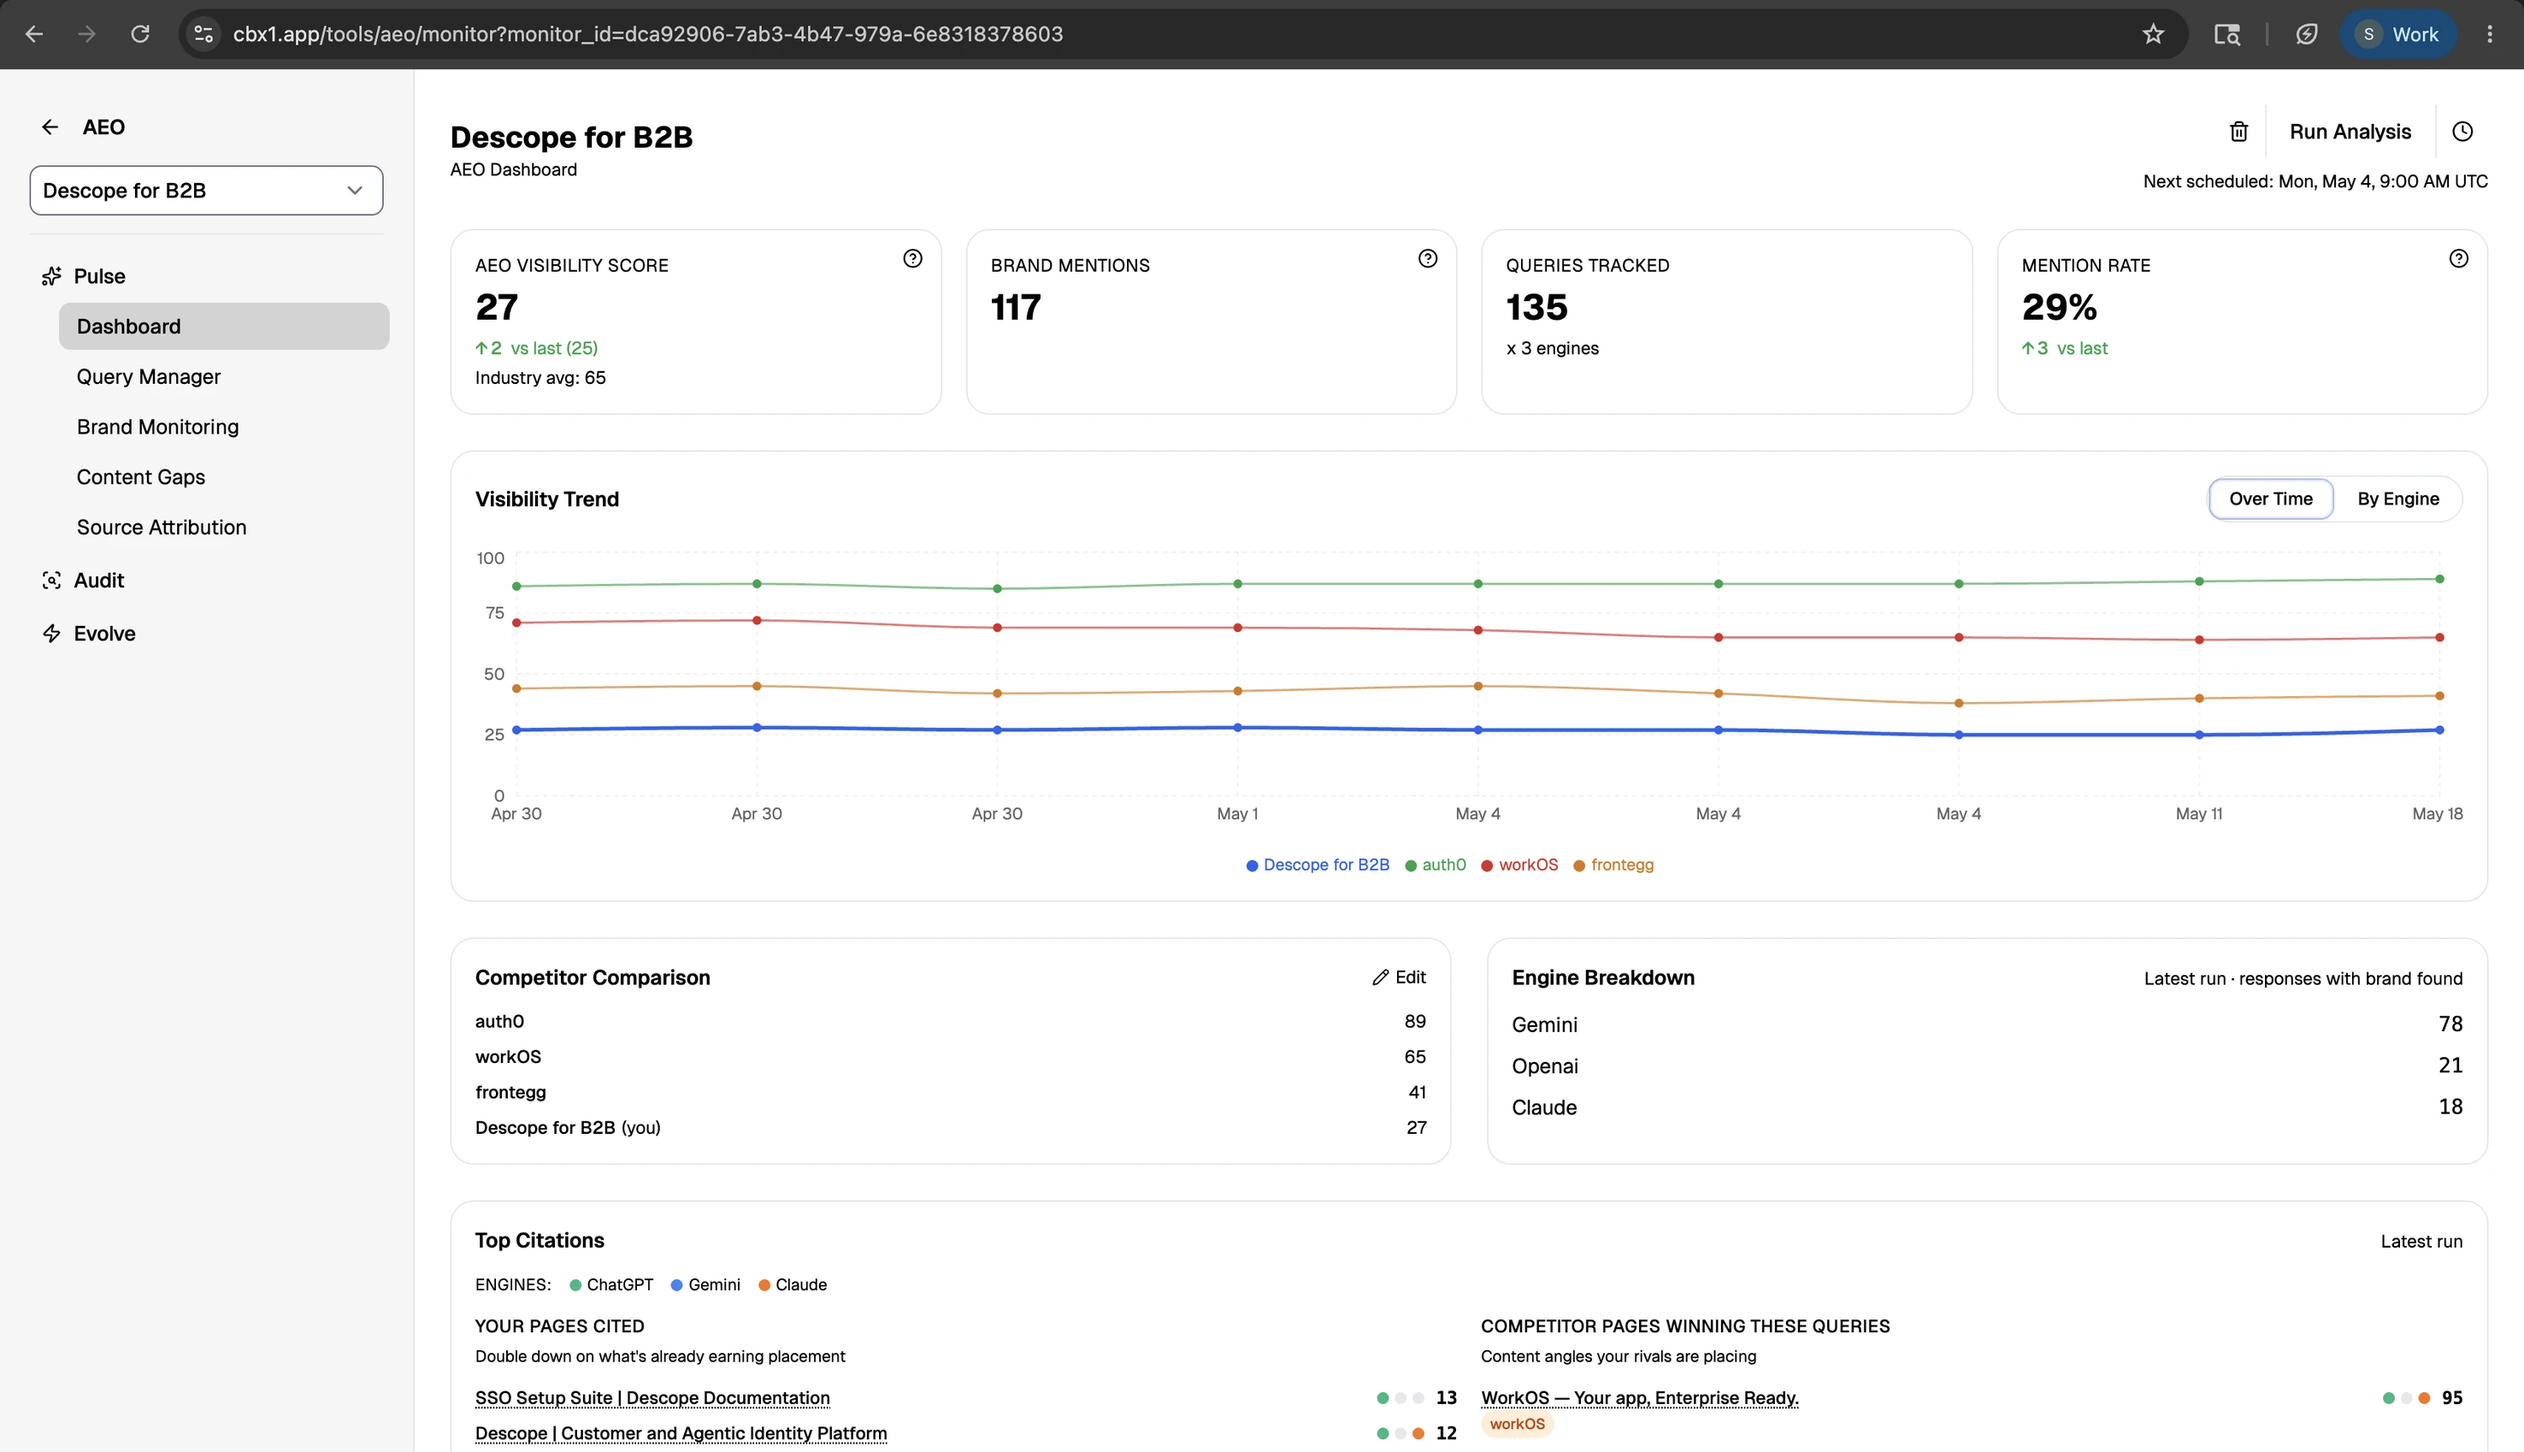
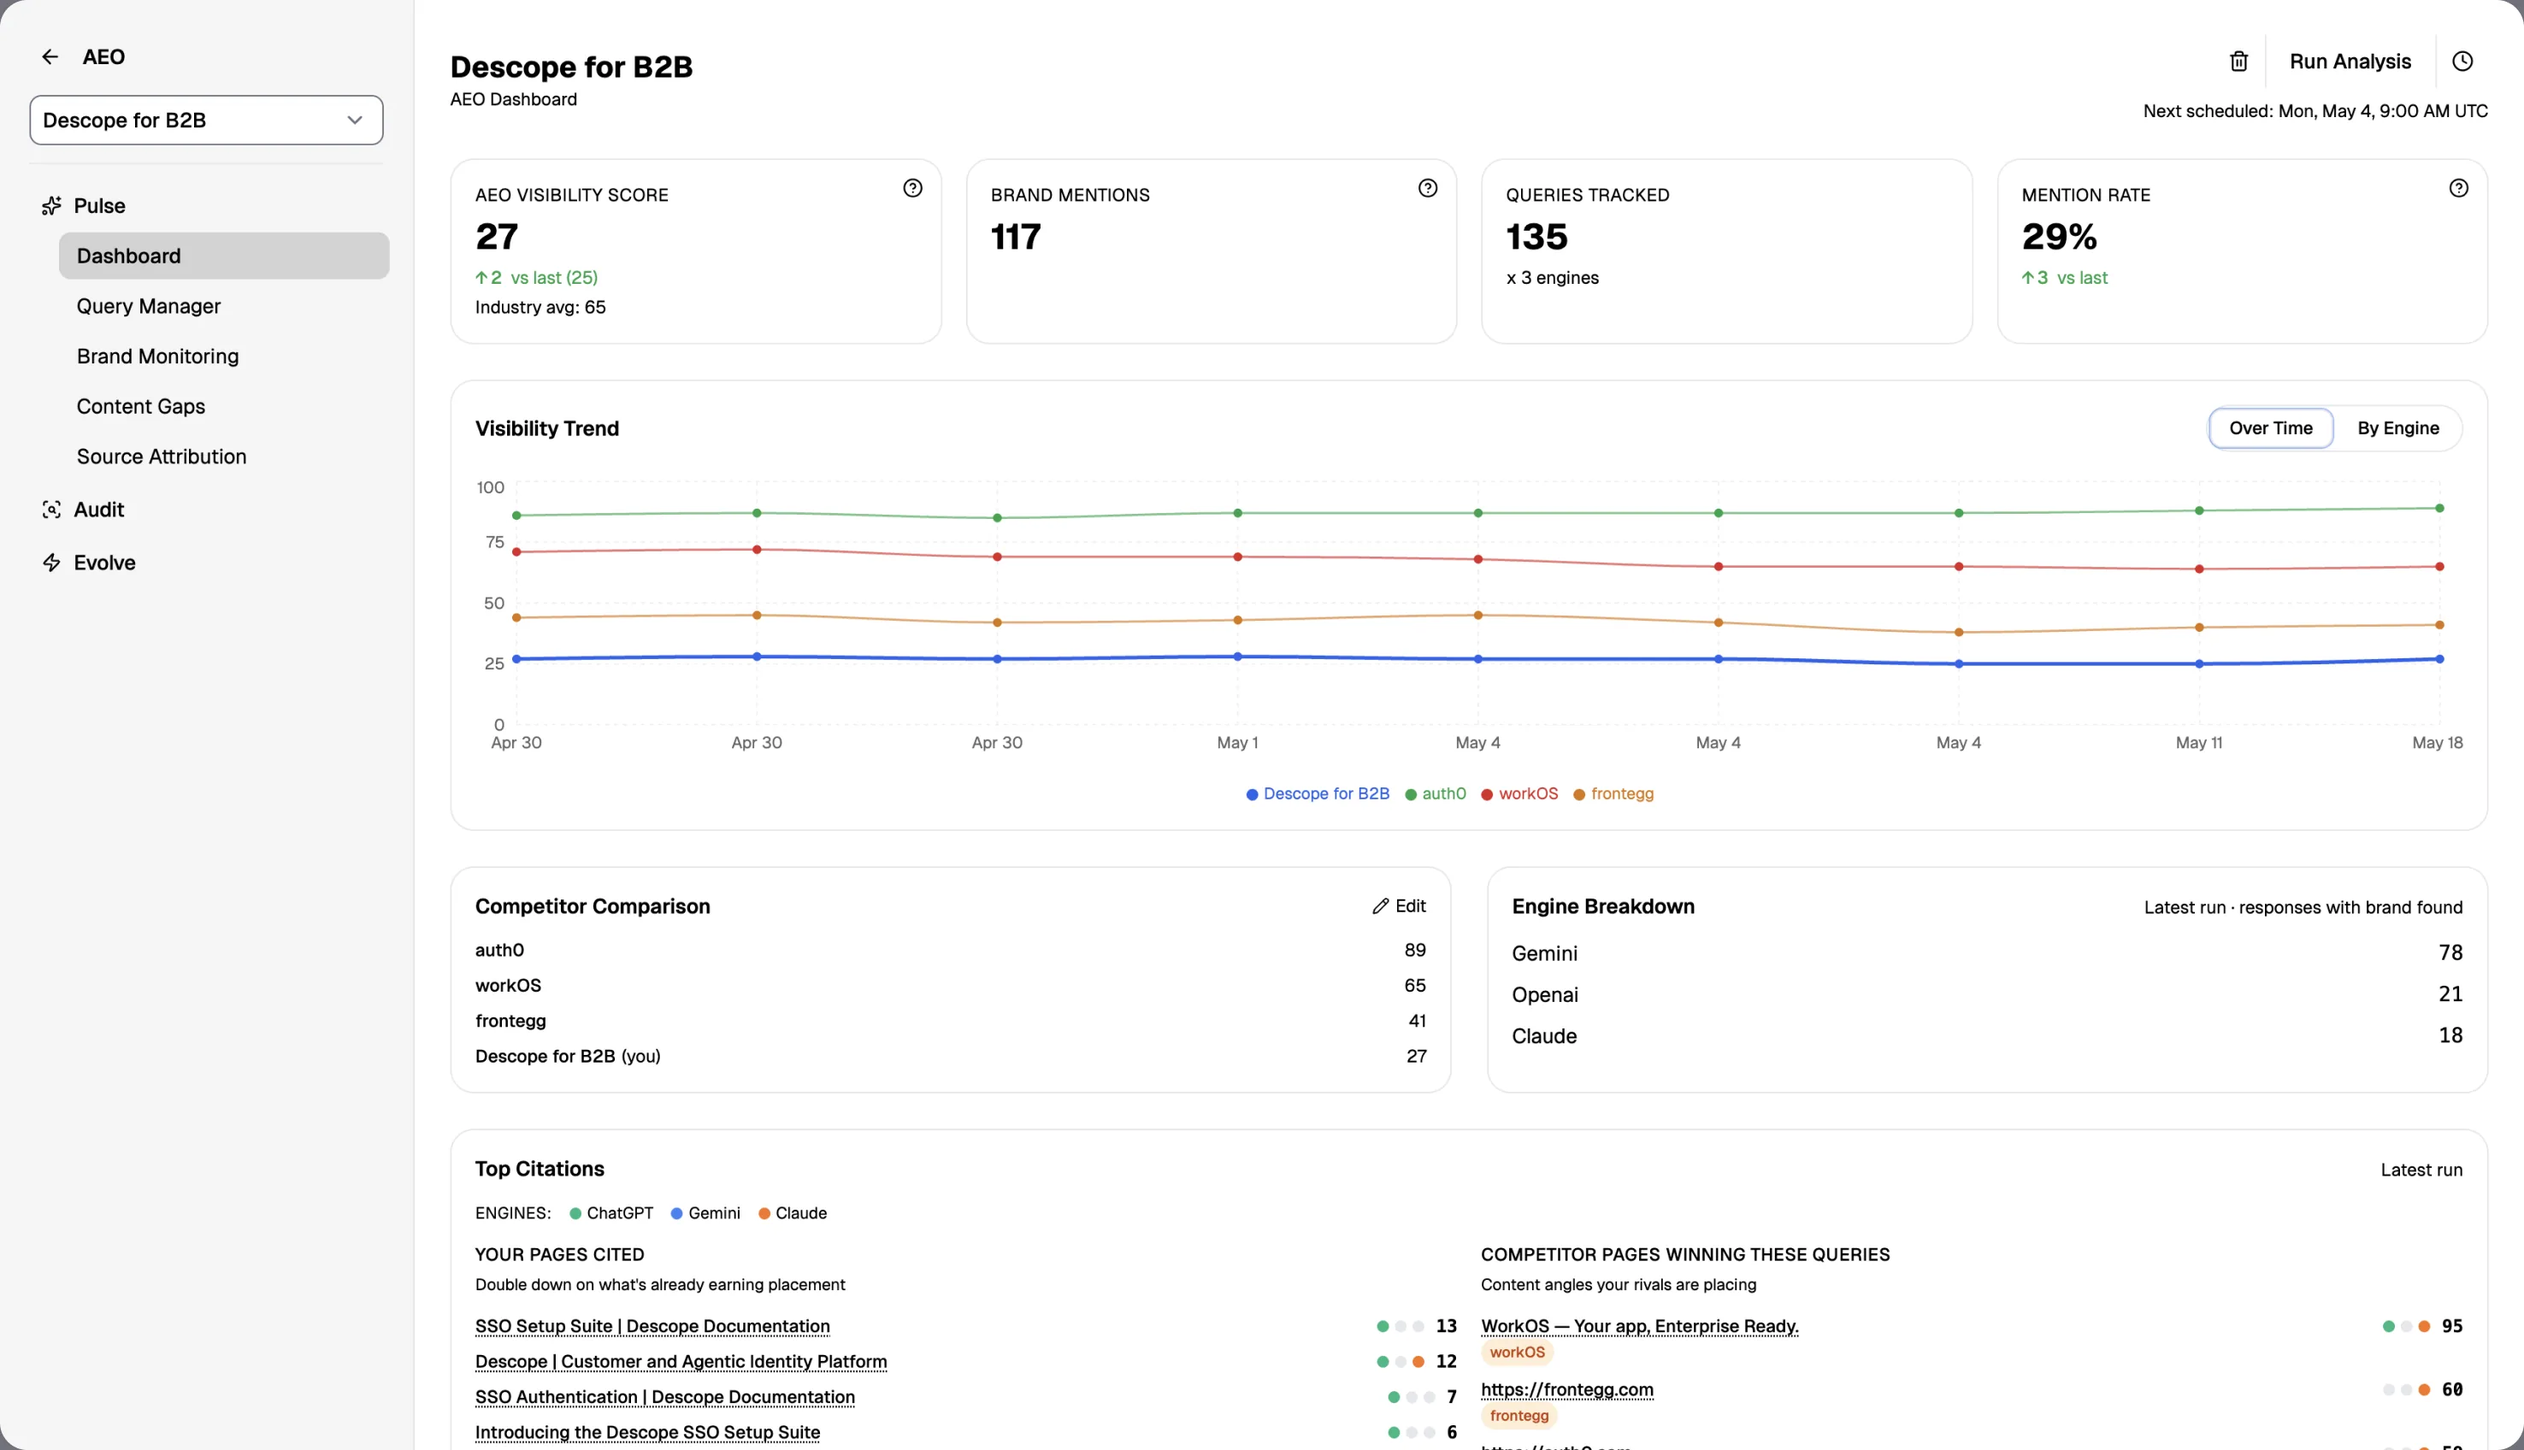
aeo: rebuild Old/New toggle from the updated Figma
New layout (1920x1404 slide, wider 1540px frame with 32px padding, centred Lora caption), orange accent for the New state, and fresh 2x exports of both dashboards. The old screen is 848px tall and the new one 847px, as in Figma, so each state uses its own height. Cache-busts the css and images.

diff --git a/css/case-study.css b/css/case-study.css
@@ -189,20 +189,24 @@
 .before-after {
   container-type: inline-size;
   --ba-old: #71717b;  /* zinc/500 */
-  --ba-new: #9f2d00;  /* orange/800 */
+  --ba-new: #ff8904;  /* elements/accent */
   --ba-ease: 250ms ease;
 }
 
+/* Figma 790:3552 (old) / 790:4883 (new): a 1920 x 1404 slide. The old
+   screen is 848 tall and the new one 847, so the card is a pixel shorter
+   in the new state; min-height keeps the slide itself from moving. */
 .before-after__slide {
   --u: calc(100cqw / 1920);
   display: flex;
   flex-direction: column;
-  background: #f4f4f5; /* zinc/100 */
-  padding: calc(84 * var(--u)) 0 calc(173 * var(--u));
+  min-height: calc(1404 * var(--u));
+  background: #fafafa; /* zinc/50 */
+  padding: calc(84 * var(--u)) 0 calc(110 * var(--u));
 }
 
 .before-after__title {
-  margin: 0 0 0 calc(72 * var(--u));
+  margin: 0 0 0 calc(222 * var(--u));
   font-family: 'Lora', Georgia, serif;
   font-weight: 500;
   font-size: max(calc(48 * var(--u)), 22px);
@@ -213,11 +217,10 @@
 
 /* Figma uses SF Pro: the system font on Apple devices, close
    system equivalents elsewhere */
-.before-after__label,
-.before-after__caption {
+.before-after__label {
   font-family: -apple-system, BlinkMacSystemFont, 'SF Pro Text', 'Segoe UI', Roboto, Helvetica, Arial, sans-serif;
-  font-weight: 400;
-  line-height: normal;
+  font-weight: 500;
+  line-height: calc(32 * var(--u));
   letter-spacing: 0;
 }
 
@@ -231,7 +234,7 @@
 
 .before-after__label {
   font-size: max(calc(24 * var(--u)), 14px);
-  color: #3f3f47; /* zinc/700 */
+  color: #27272a; /* zinc/800 */
   cursor: pointer;
   user-select: none;
 }
@@ -269,9 +272,9 @@
 
 .before-after__frame {
   align-self: center;
-  width: calc(1508 * var(--u));
-  margin-top: calc(16 * var(--u));
-  padding: calc(16 * var(--u));
+  width: calc(1540 * var(--u));
+  margin-top: calc(24 * var(--u));
+  padding: calc(32 * var(--u));
   border-radius: calc(16 * var(--u));
   background: var(--ba-old);
   transition: background-color var(--ba-ease);
@@ -279,10 +282,11 @@
 
 .before-after__screen {
   position: relative;
-  aspect-ratio: 1476 / 849;
+  height: calc(848 * var(--u));
   border-radius: calc(16 * var(--u));
   overflow: hidden;
   background: #fff;
+  transition: height var(--ba-ease);
 }
 
 .before-after__img {
@@ -299,11 +303,15 @@
 }
 
 .before-after__caption {
-  align-self: flex-end;
-  margin: calc(16 * var(--u)) calc(259 * var(--u)) 0 var(--space-md);
-  font-size: max(calc(20 * var(--u)), 12px);
-  color: #191919;
-  text-align: right;
+  align-self: center;
+  margin: calc(32 * var(--u)) var(--space-md) 0;
+  font-family: 'Lora', Georgia, serif;
+  font-weight: 400;
+  font-size: max(calc(24 * var(--u)), 14px);
+  line-height: calc(32 * var(--u));
+  letter-spacing: 0;
+  color: #71717b; /* zinc/500 */
+  text-align: center;
 }
 
 /* ── New state ── */
@@ -314,6 +322,11 @@
 
 .before-after[data-state="new"] .before-after__knob {
   transform: translateX(var(--sh));
+}
+
+/* the new dashboard export is one px shorter than the old one (Figma 847 vs 848) */
+.before-after[data-state="new"] .before-after__screen {
+  height: calc(847 * var(--u));
 }
 
 .before-after[data-state="new"] .before-after__img--new {
@@ -327,15 +340,16 @@
 }
 
 @keyframes before-after-pulse {
-  0%   { box-shadow: 0 0 0 0 rgba(159, 45, 0, 0.45); }
-  60%  { box-shadow: 0 0 0 max(calc(14 * var(--u)), 7px) rgba(159, 45, 0, 0); }
-  100% { box-shadow: 0 0 0 0 rgba(159, 45, 0, 0); }
+  0%   { box-shadow: 0 0 0 0 rgba(255, 137, 4, 0.55); }
+  60%  { box-shadow: 0 0 0 max(calc(14 * var(--u)), 7px) rgba(255, 137, 4, 0); }
+  100% { box-shadow: 0 0 0 0 rgba(255, 137, 4, 0); }
 }
 
 @media (prefers-reduced-motion: reduce) {
   .before-after__switch,
   .before-after__knob,
   .before-after__frame,
+  .before-after__screen,
   .before-after__img {
     transition: none;
   }

diff --git a/project/answer-engine-optimization/index.html b/project/answer-engine-optimization/index.html
@@ -16,7 +16,7 @@
     <link rel="stylesheet" href="../../css/variables.css" />
     <link rel="stylesheet" href="../../css/main.css" />
     <link rel="stylesheet" href="../../css/nav.css" />
-    <link rel="stylesheet" href="../../css/case-study.css?v=2" />
+    <link rel="stylesheet" href="../../css/case-study.css?v=3" />
     <link rel="stylesheet" href="../../css/side-nav.css?v=2" />
     <link rel="stylesheet" href="../../css/aeo-widgets.css?v=6" />
     <link rel="stylesheet" href="../../css/aeo-where.css?v=5" />
@@ -106,8 +106,8 @@
           </div>
           <div class="before-after__frame">
             <div class="before-after__screen">
-              <img class="before-after__img before-after__img--old" src="../../assets/case-studies/aeo/screen-old.webp" alt="Old AEO dashboard: visibility score, brand mentions, a visibility trend chart and competitor tables" loading="lazy" />
-              <img class="before-after__img before-after__img--new" src="../../assets/case-studies/aeo/screen-new.webp" alt="Redesigned AEO dashboard: a visibility score of 58, how you're showing up from questions to top pick, and content plays" loading="lazy" />
+              <img class="before-after__img before-after__img--old" src="../../assets/case-studies/aeo/screen-old.webp?v=2" alt="Old AEO dashboard: visibility score, brand mentions, a visibility trend chart and competitor tables" loading="lazy" />
+              <img class="before-after__img before-after__img--new" src="../../assets/case-studies/aeo/screen-new.webp?v=2" alt="Redesigned AEO dashboard: a visibility score of 58, how you're showing up from questions to top pick, and content plays" loading="lazy" />
             </div>
           </div>
           <p class="before-after__caption">Just a sneak peek. Let me walk you through how I got here.</p>
